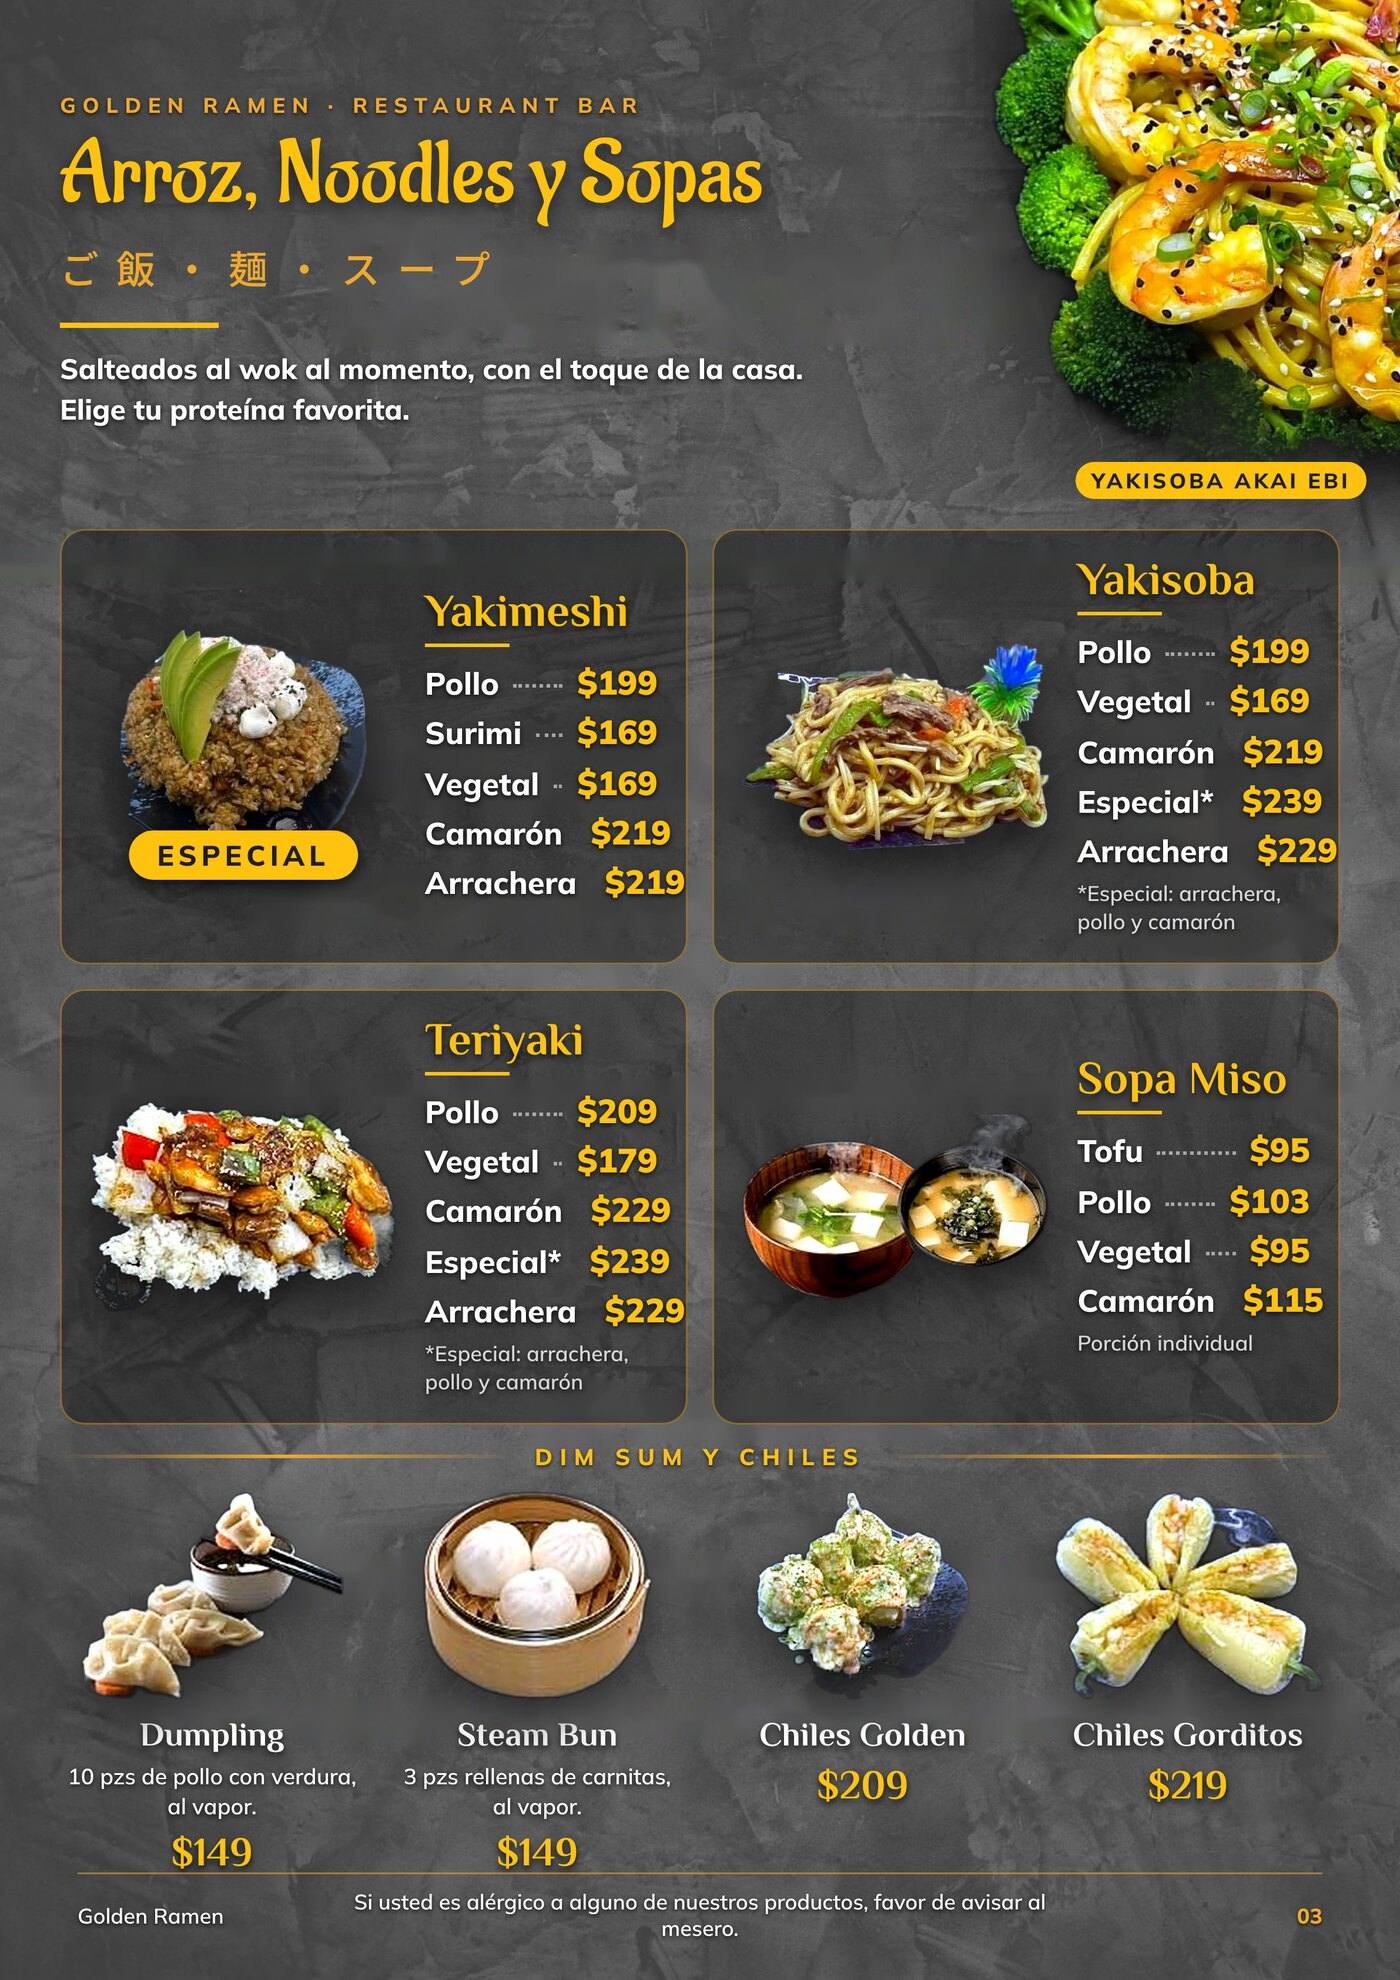
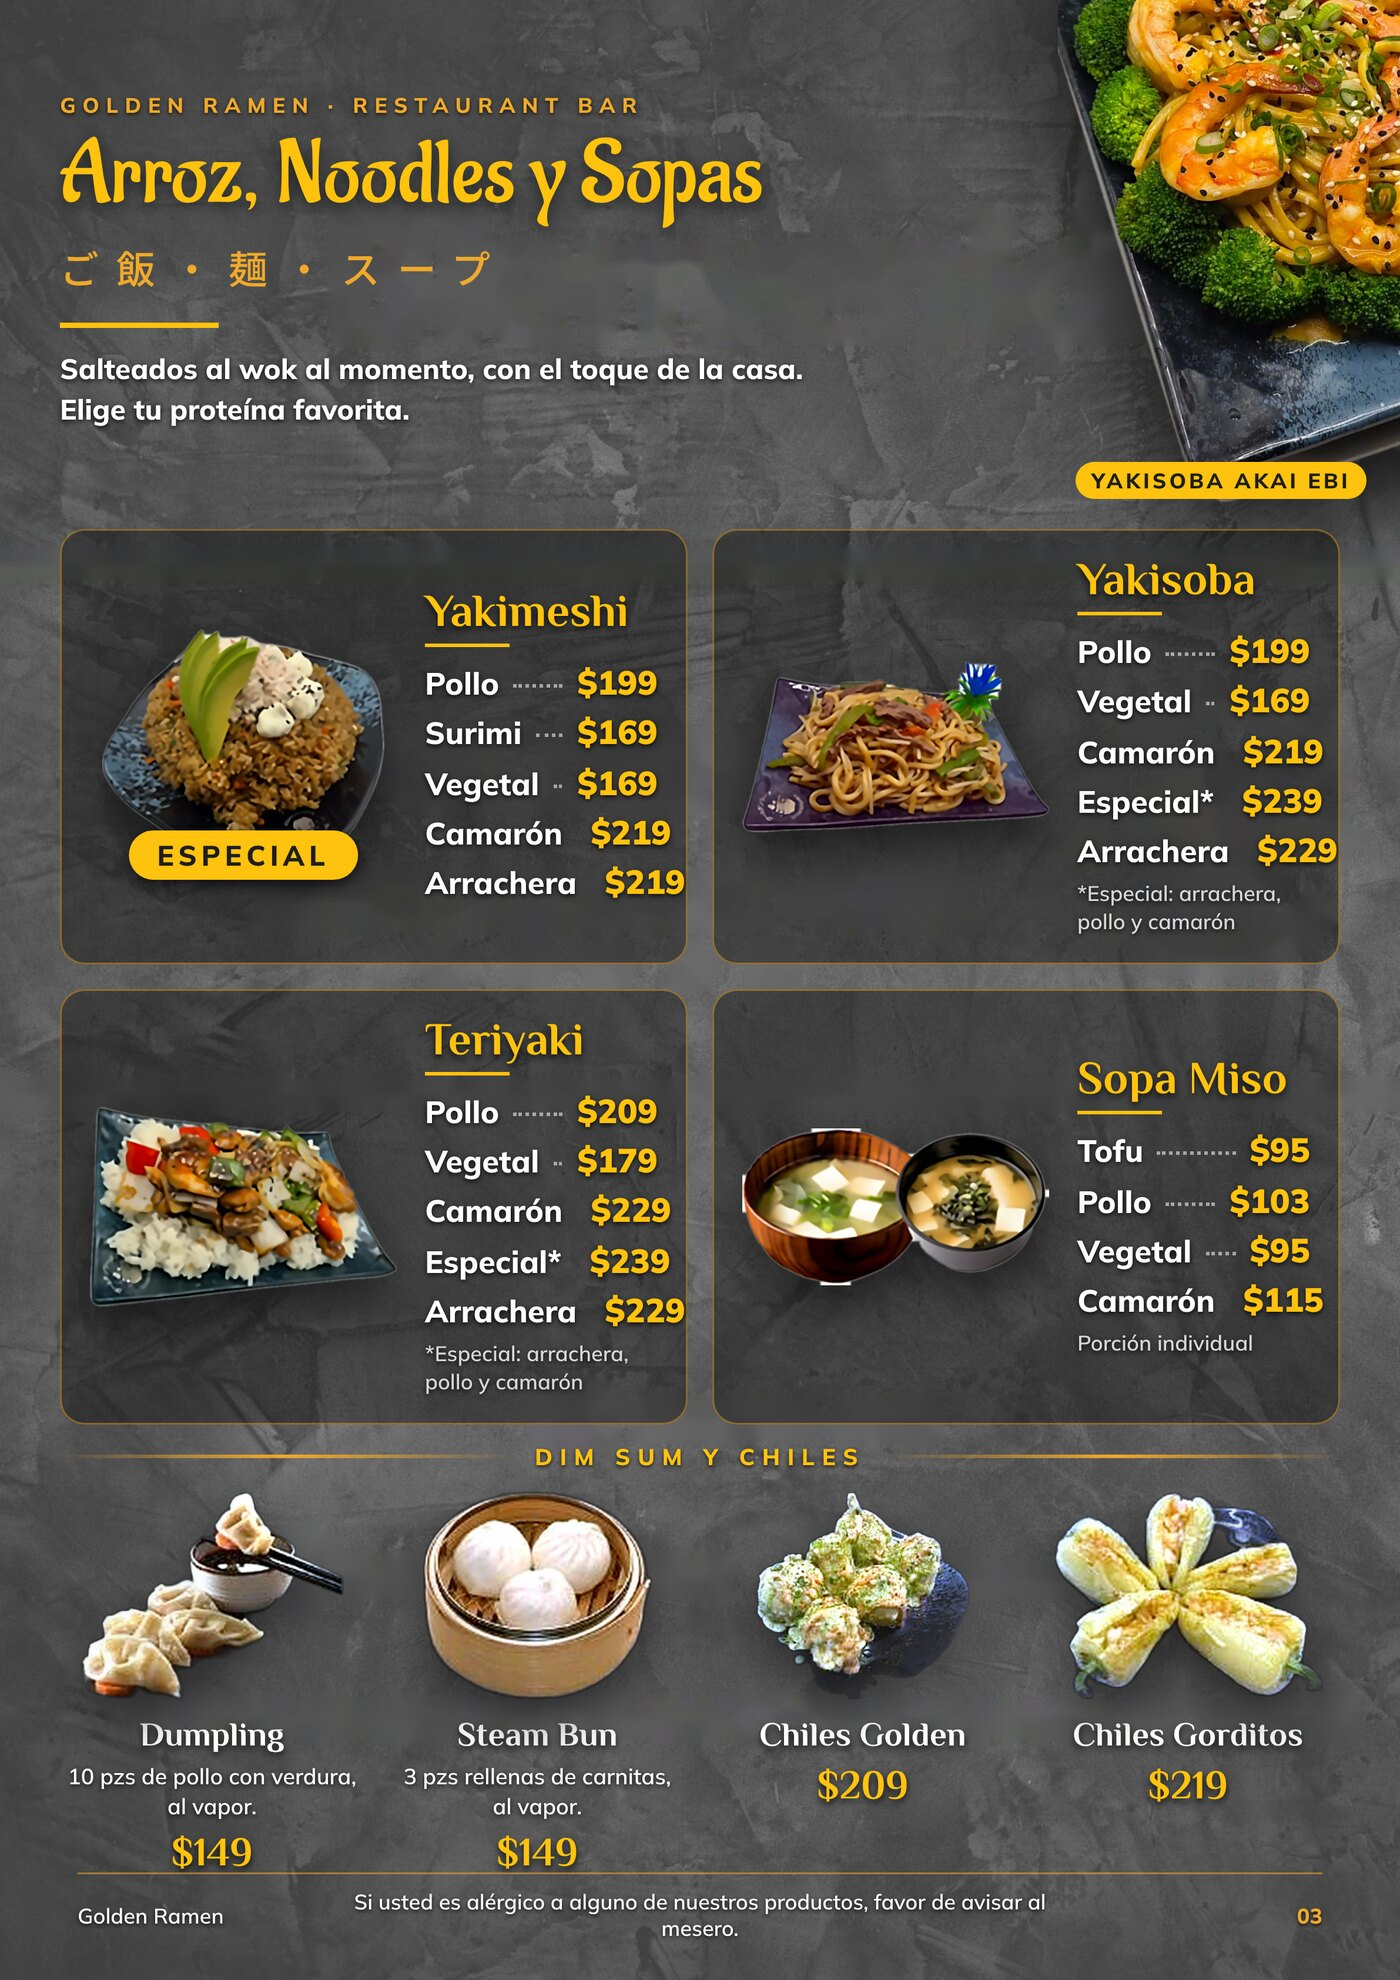
Fotos nuevas: Yakimeshi, Yakisoba, Teriyaki, Sopa Miso
Claude-Session: https://claude.ai/code/session_019koabpyAAMnZPtrZYFtJVk

diff --git a/index.html b/index.html
@@ -53,10 +53,10 @@ for(let i=1;i<=N;i++){
   const d=document.createElement('div');
   d.className='page'+((i===1||i===N)?' hard':'');
   if(i===1||i===N) d.setAttribute('data-density','hard');
-  d.innerHTML=`<img src="p${pad(i)}.jpg?v=1794816448" alt="Página ${i} del menú Golden Ramen" ${i>4?'loading="lazy"':''}>`;
+  d.innerHTML=`<img src="p${pad(i)}.jpg?v=1794816700" alt="Página ${i} del menú Golden Ramen" ${i>4?'loading="lazy"':''}>`;
   book.appendChild(d);
   const t=document.createElement('button'); t.className='th'; t.setAttribute('aria-label','Ir a la página '+i);
-  t.innerHTML=`<img src="t${pad(i)}.jpg?v=1794816448" alt="">`; t.onclick=()=>pf&&pf.flip(i-1);
+  t.innerHTML=`<img src="t${pad(i)}.jpg?v=1794816700" alt="">`; t.onclick=()=>pf&&pf.flip(i-1);
   thumbs.appendChild(t);
 }
 let pf=null; let lastW=innerWidth; addEventListener('resize',()=>{ if(Math.abs(innerWidth-lastW)>80){ location.reload(); } });
